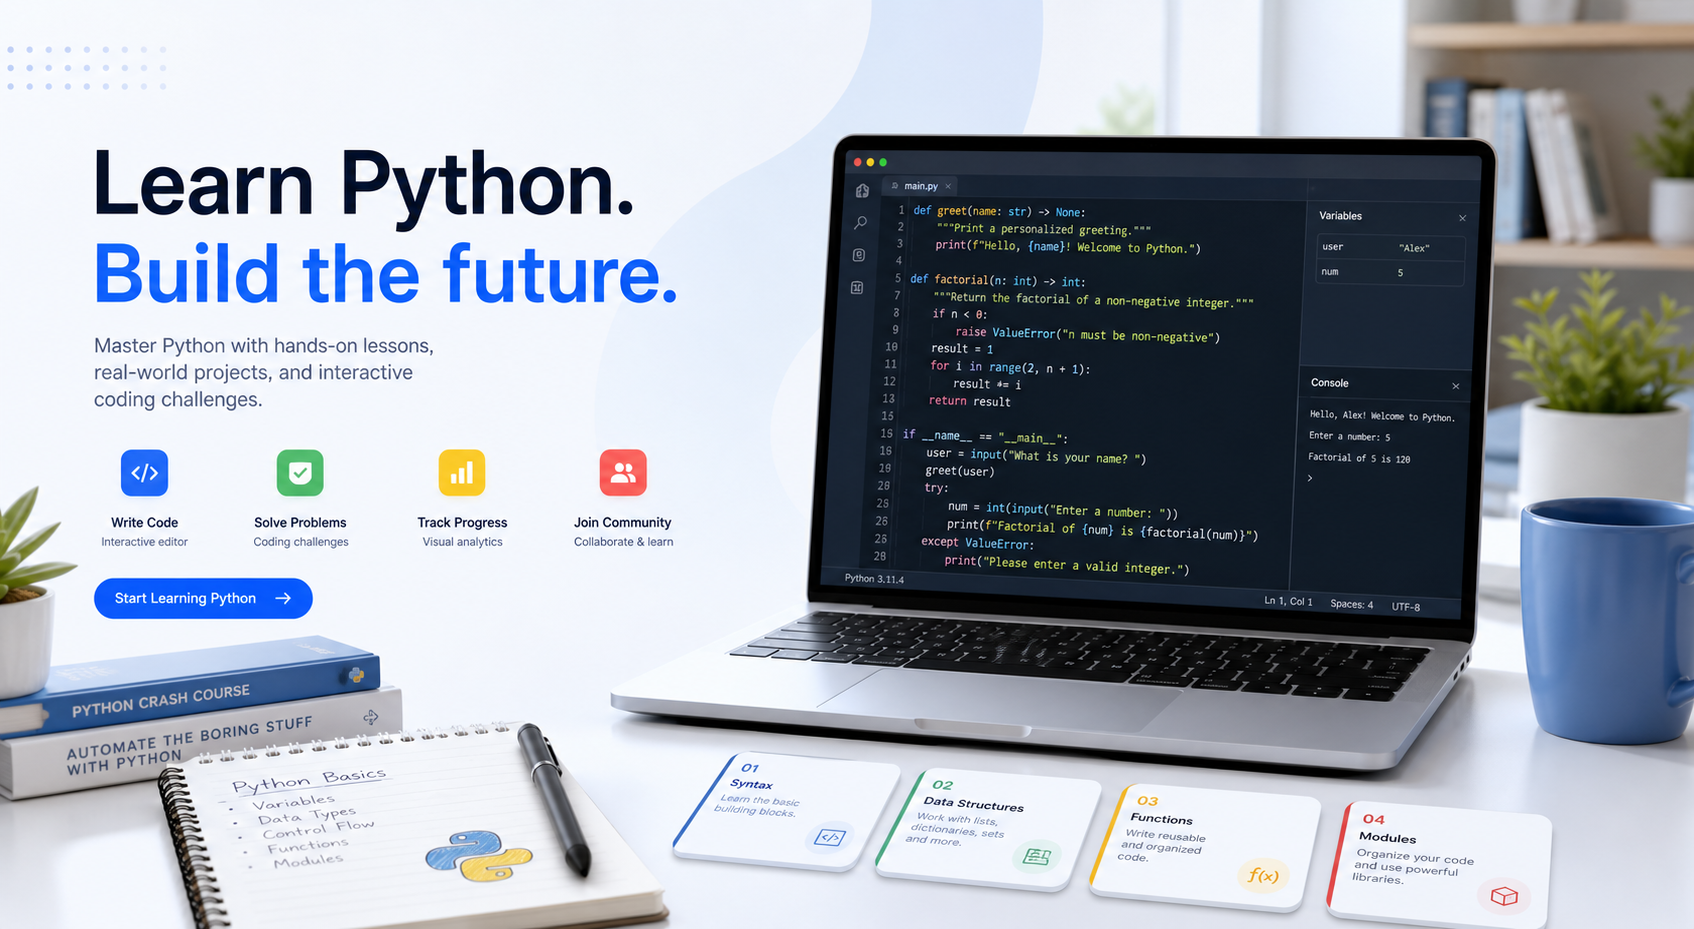
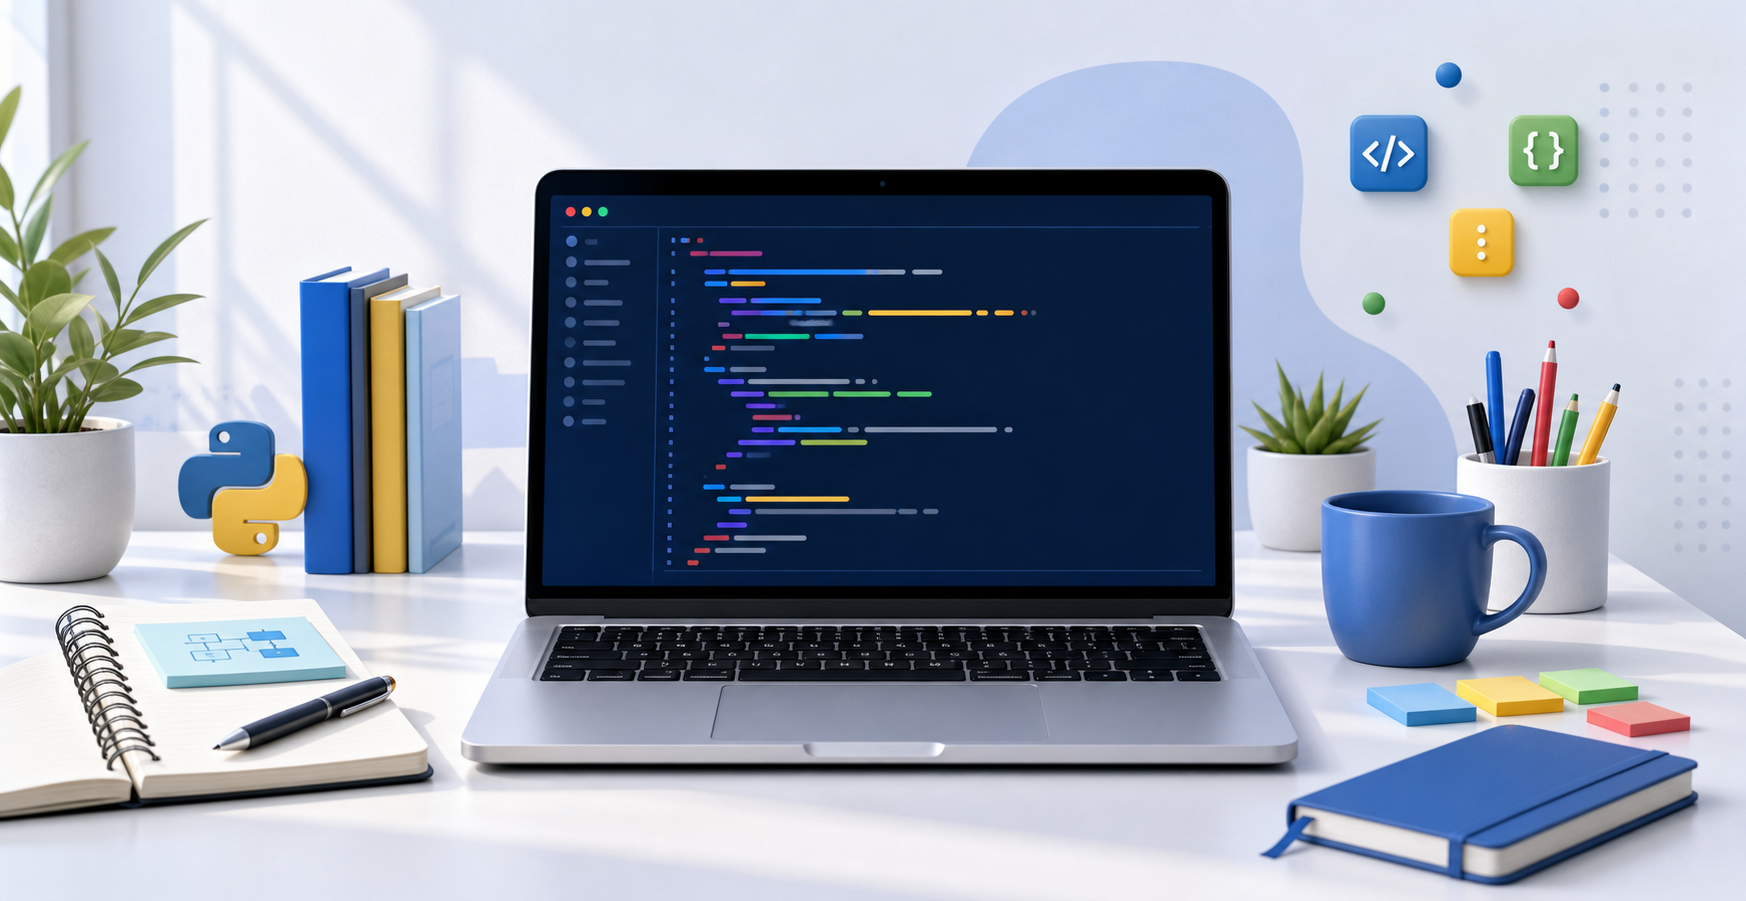
fix hero image layout

diff --git a/src/App.jsx b/src/App.jsx
@@ -223,19 +223,19 @@ function HomePage() {
             </div>
           </div>
 
-          <div className="relative overflow-hidden rounded border border-slate-200 bg-white shadow-soft">
+          <div className="overflow-hidden rounded border border-slate-200 bg-white shadow-soft">
             <img
               src="/python-learning-hero.png"
               alt="Ilustrasi workspace belajar Python"
-              className="aspect-[4/3] w-full object-cover"
+              className="aspect-video w-full bg-slate-50 object-contain"
             />
-            <div className="absolute inset-x-4 bottom-4 rounded border border-white/10 bg-slate-950/95 p-4 shadow-soft backdrop-blur">
+            <div className="border-t border-slate-200 bg-slate-950 p-4">
               <div className="mb-3 flex items-center gap-2">
                 <span className="h-3 w-3 rounded-full bg-red-400" />
                 <span className="h-3 w-3 rounded-full bg-amber-400" />
                 <span className="h-3 w-3 rounded-full bg-emerald-400" />
               </div>
-              <div className="max-h-40 overflow-hidden">
+              <div className="max-h-36 overflow-hidden">
                 <CodeBlock
                   code={
                     "topics = ['Dasar', 'Loop', 'Data', 'OOP']\n\nfor topic in topics:\n    print(f'Belajar {topic}')\n\nprint('Siap membuat project Python!')"